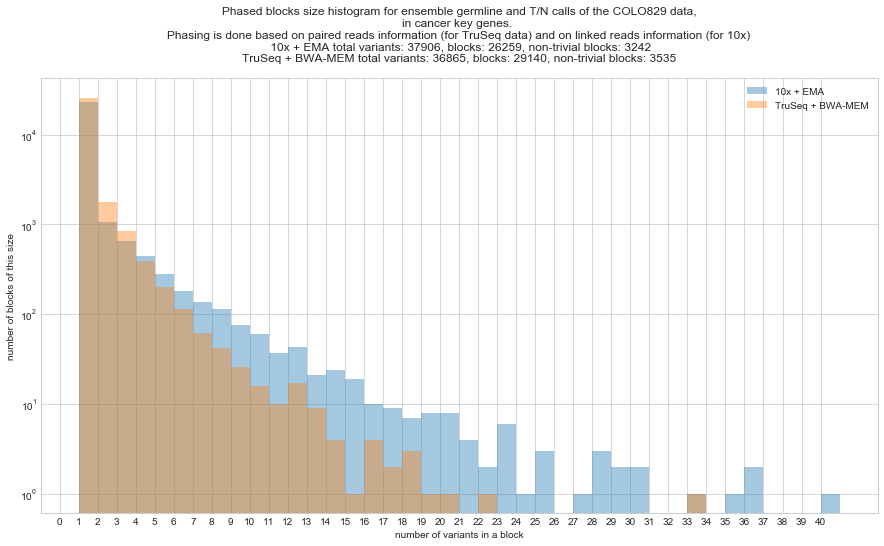
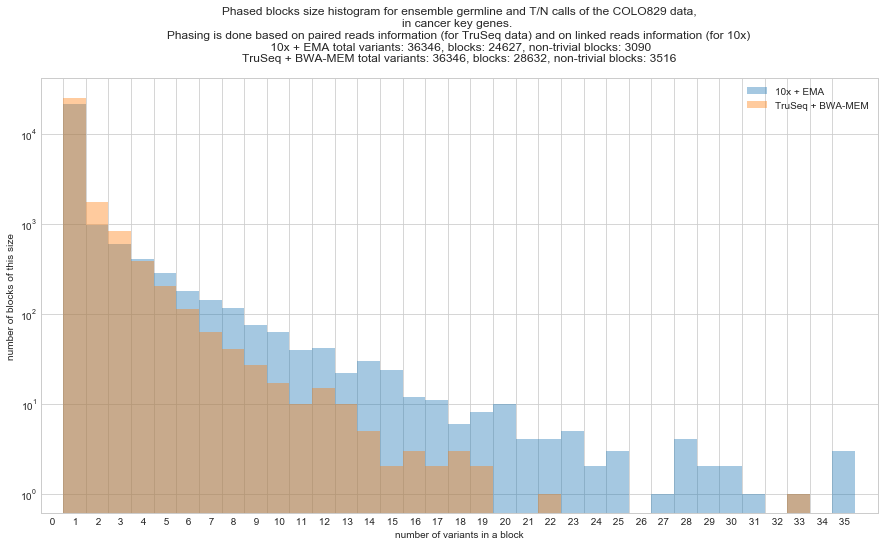
Phasing per gene: cut to 10 bins. Fix plot lbl alignment

diff --git a/phasing/README.md b/phasing/README.md
@@ -2,11 +2,11 @@
 
 To phase the variants, we use [HapCUT2](https://github.com/vibansal/HapCUT2) that can phase both on linked reads (for 10x data) and paired information (for TruSeq data). 
 
-To phase all dilution series both EMA and TruSeq, I prepared a [Snakefile](Snakefile) (see in this repo) that can be run on Raijin cluster (see a finished run in `/home/563/vs2870/gx8/data/10X/Phasing/full_run`). 
+To phase all dilution series both EMA and TruSeq, we prepared a [Snakefile](Snakefile) (see in this repo) that can be run on Raijin cluster (see a finished run in `/home/563/vs2870/gx8/data/10X/Phasing/full_run`). 
 It contains the [10x HapCUT2 steps](https://github.com/vibansal/HapCUT2#10x-genomics-linked-reads) and [normal paired read steps](https://github.com/vibansal/HapCUT2#to-run), 
 plus a [fgbio tool HapCutToVcf](https://github.com/fulcrumgenomics/fgbio#list-of-tools) to convert HAPCUT2 output back into a phased VCF (and populate the `GT` and `PS` FORMAT tags).
 
-The generated phasing blocks can be plotted with the Jypter notebook [Plot phase blocks.ipynb]("Plot phase blocks.ipynb").
+The generated phasing blocks are plotted with the Jypter notebook [Plot phase blocks.ipynb]("Plot phase blocks.ipynb").
 
 Somatic variants:
 
@@ -16,19 +16,16 @@ Somatic+germline variants in 100 key genes:
 
 ![phasing_hist_100pc_germline_keygenes_log.png](phasing_hist_100pc_germline_keygenes_log.png)
 
-Variants per gene in key genes (somatic+germline high/moderate impact, in 100 key genes)
+Phased blocks per gene in key genes (only high/moderate impact, somatic+germline, in 100 key genes), first 10 bins. 10x has a lower mean block size (1.89 vs 2.16), which is good.
 
-![variants_per_gene.png](variants_per_gene.png)
+![highimpact_phased_per_gene.first10.png](highimpact_phased_per_gene.first10.png)
 
-Phased blocks per gene in key genes (somatic+germline high/moderate impact, in 100 key genes)
+From the plot above, it looks like the linked reads barely help to phase. But in fact it works well to phase together somatic variants with surrounding germline calls.
 
-![phased_block_per_gene.png](phased_block_per_gene.png)
+- TruSeq: among 8 true positive high/moderate impact somatic variants in key genes, 1 phase together with 2 high/moderate germline variants. 
 
-We want to be able to phase somatic variants together with germline varaints.
+- EMA: in 7 variants, even 6 phase together with some germline calls, 4 of which phase with high/moderate impact germline variants (3, 2, 2, 1 correspondingly)
 
-- TruSeq: 1 somatic high/moderate variant is phased together with 2 high/moderate germline varaints.
-
-- 10x: total 6 high/moderate somatic variants are phased, with 5, 3, 2, 0, 2, 0, and 1 germline high/moderate variant.
 
 
 ### Making the pipeline
